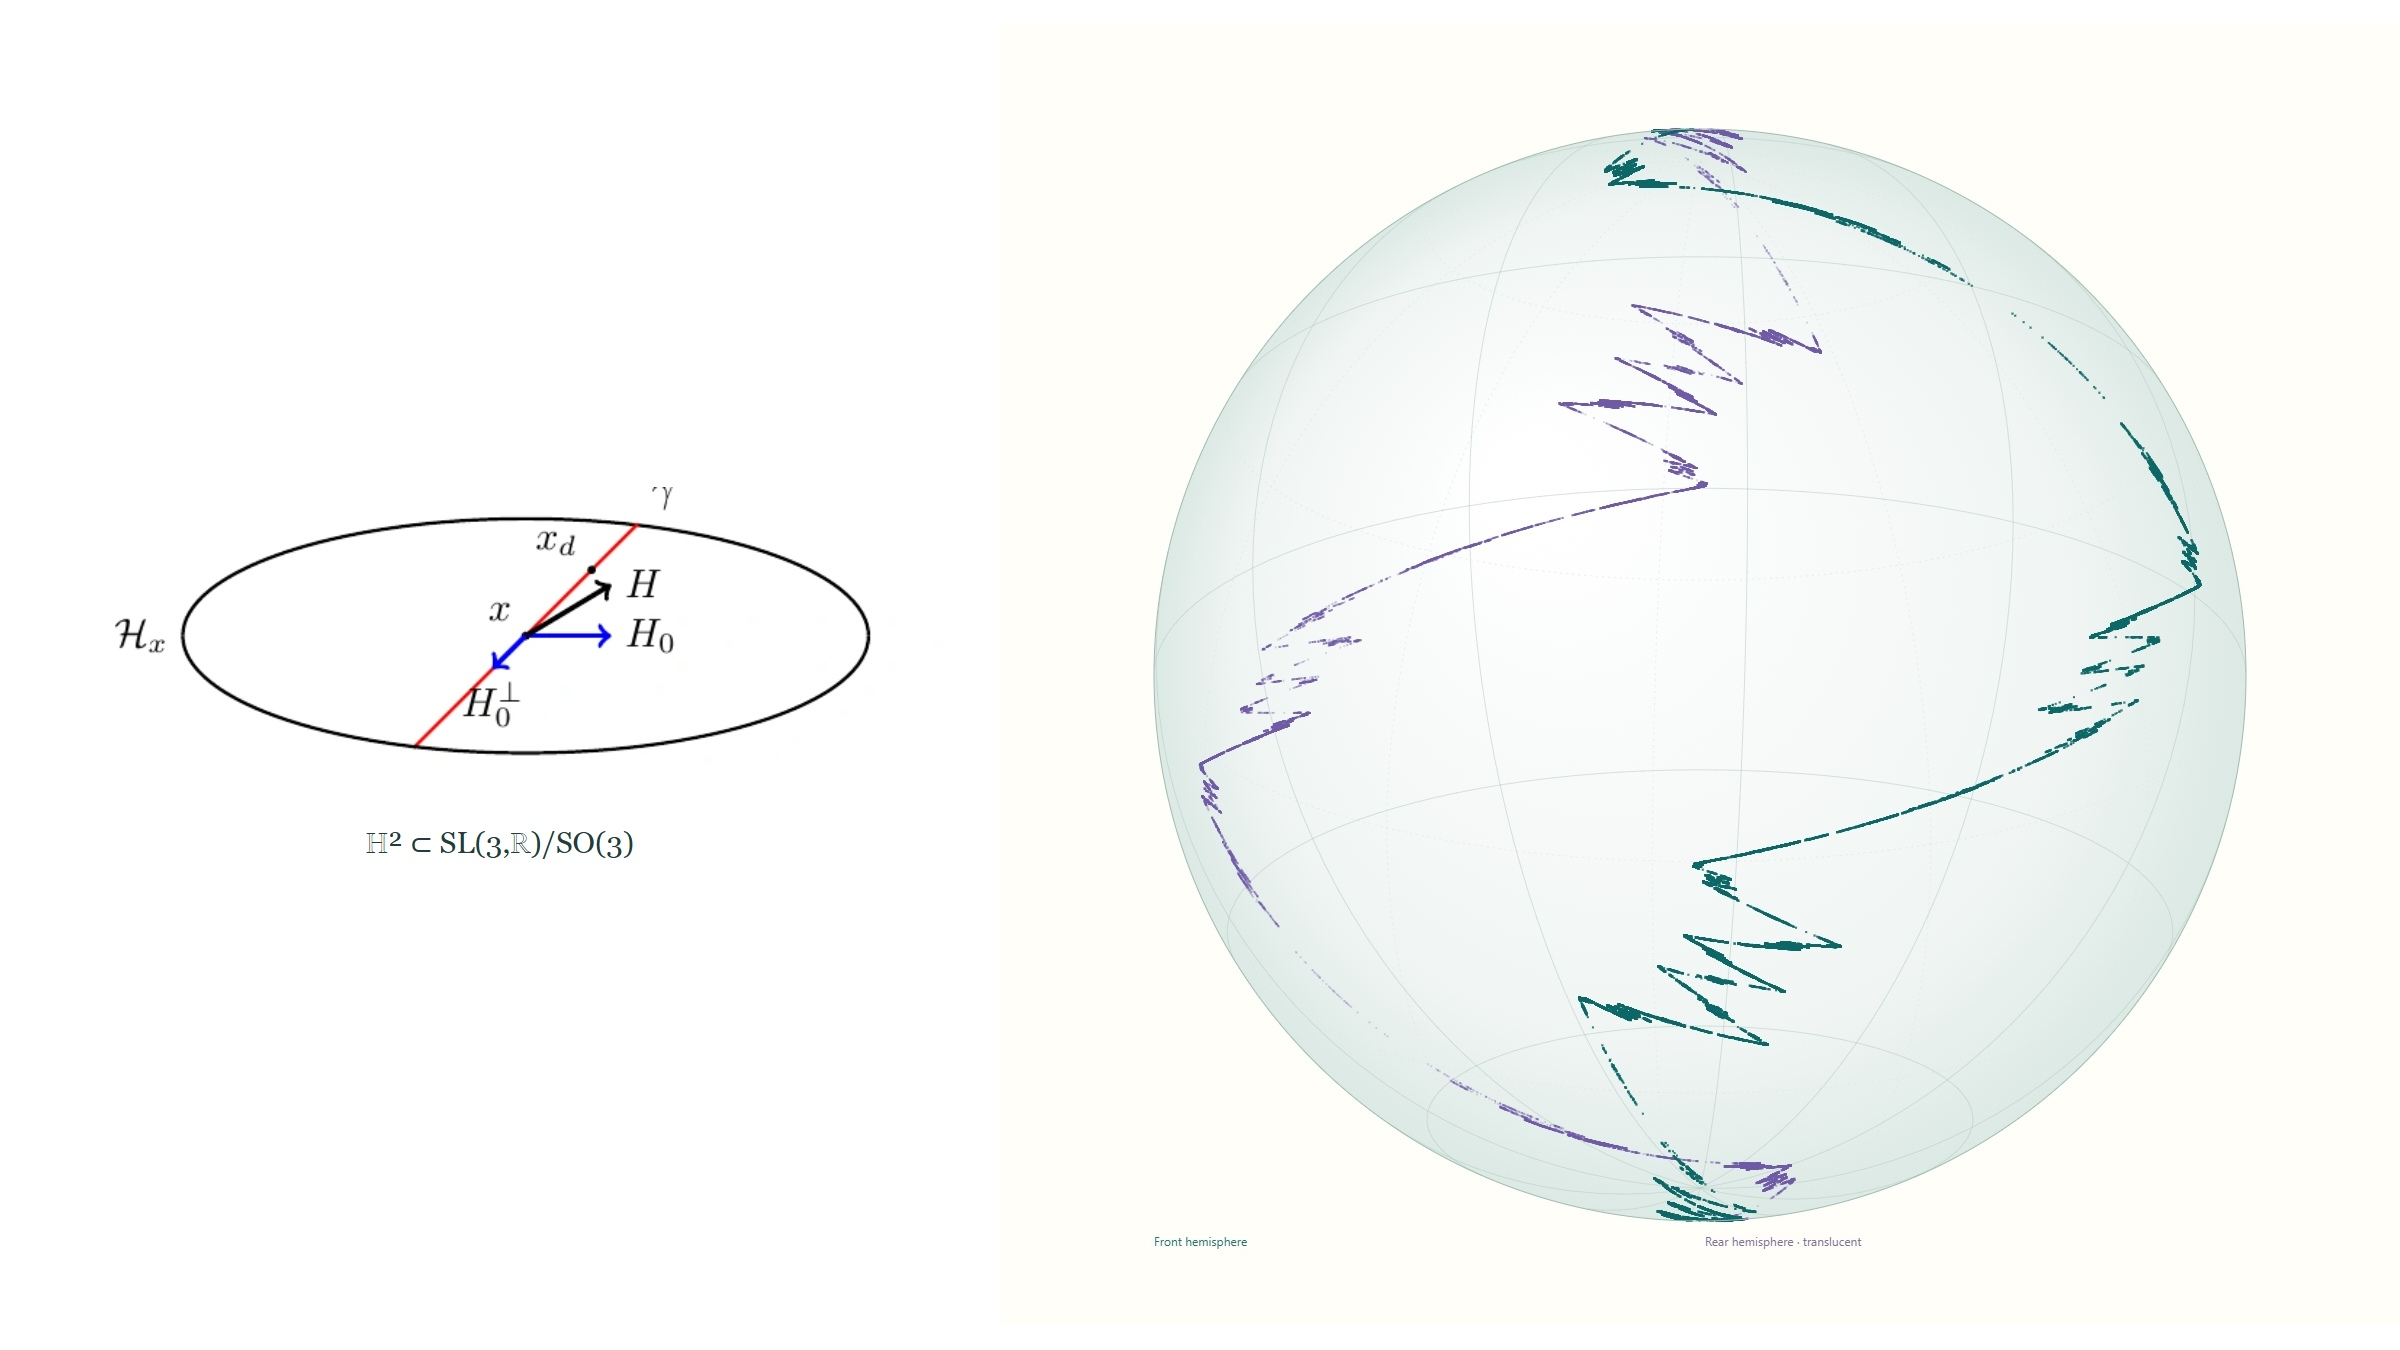
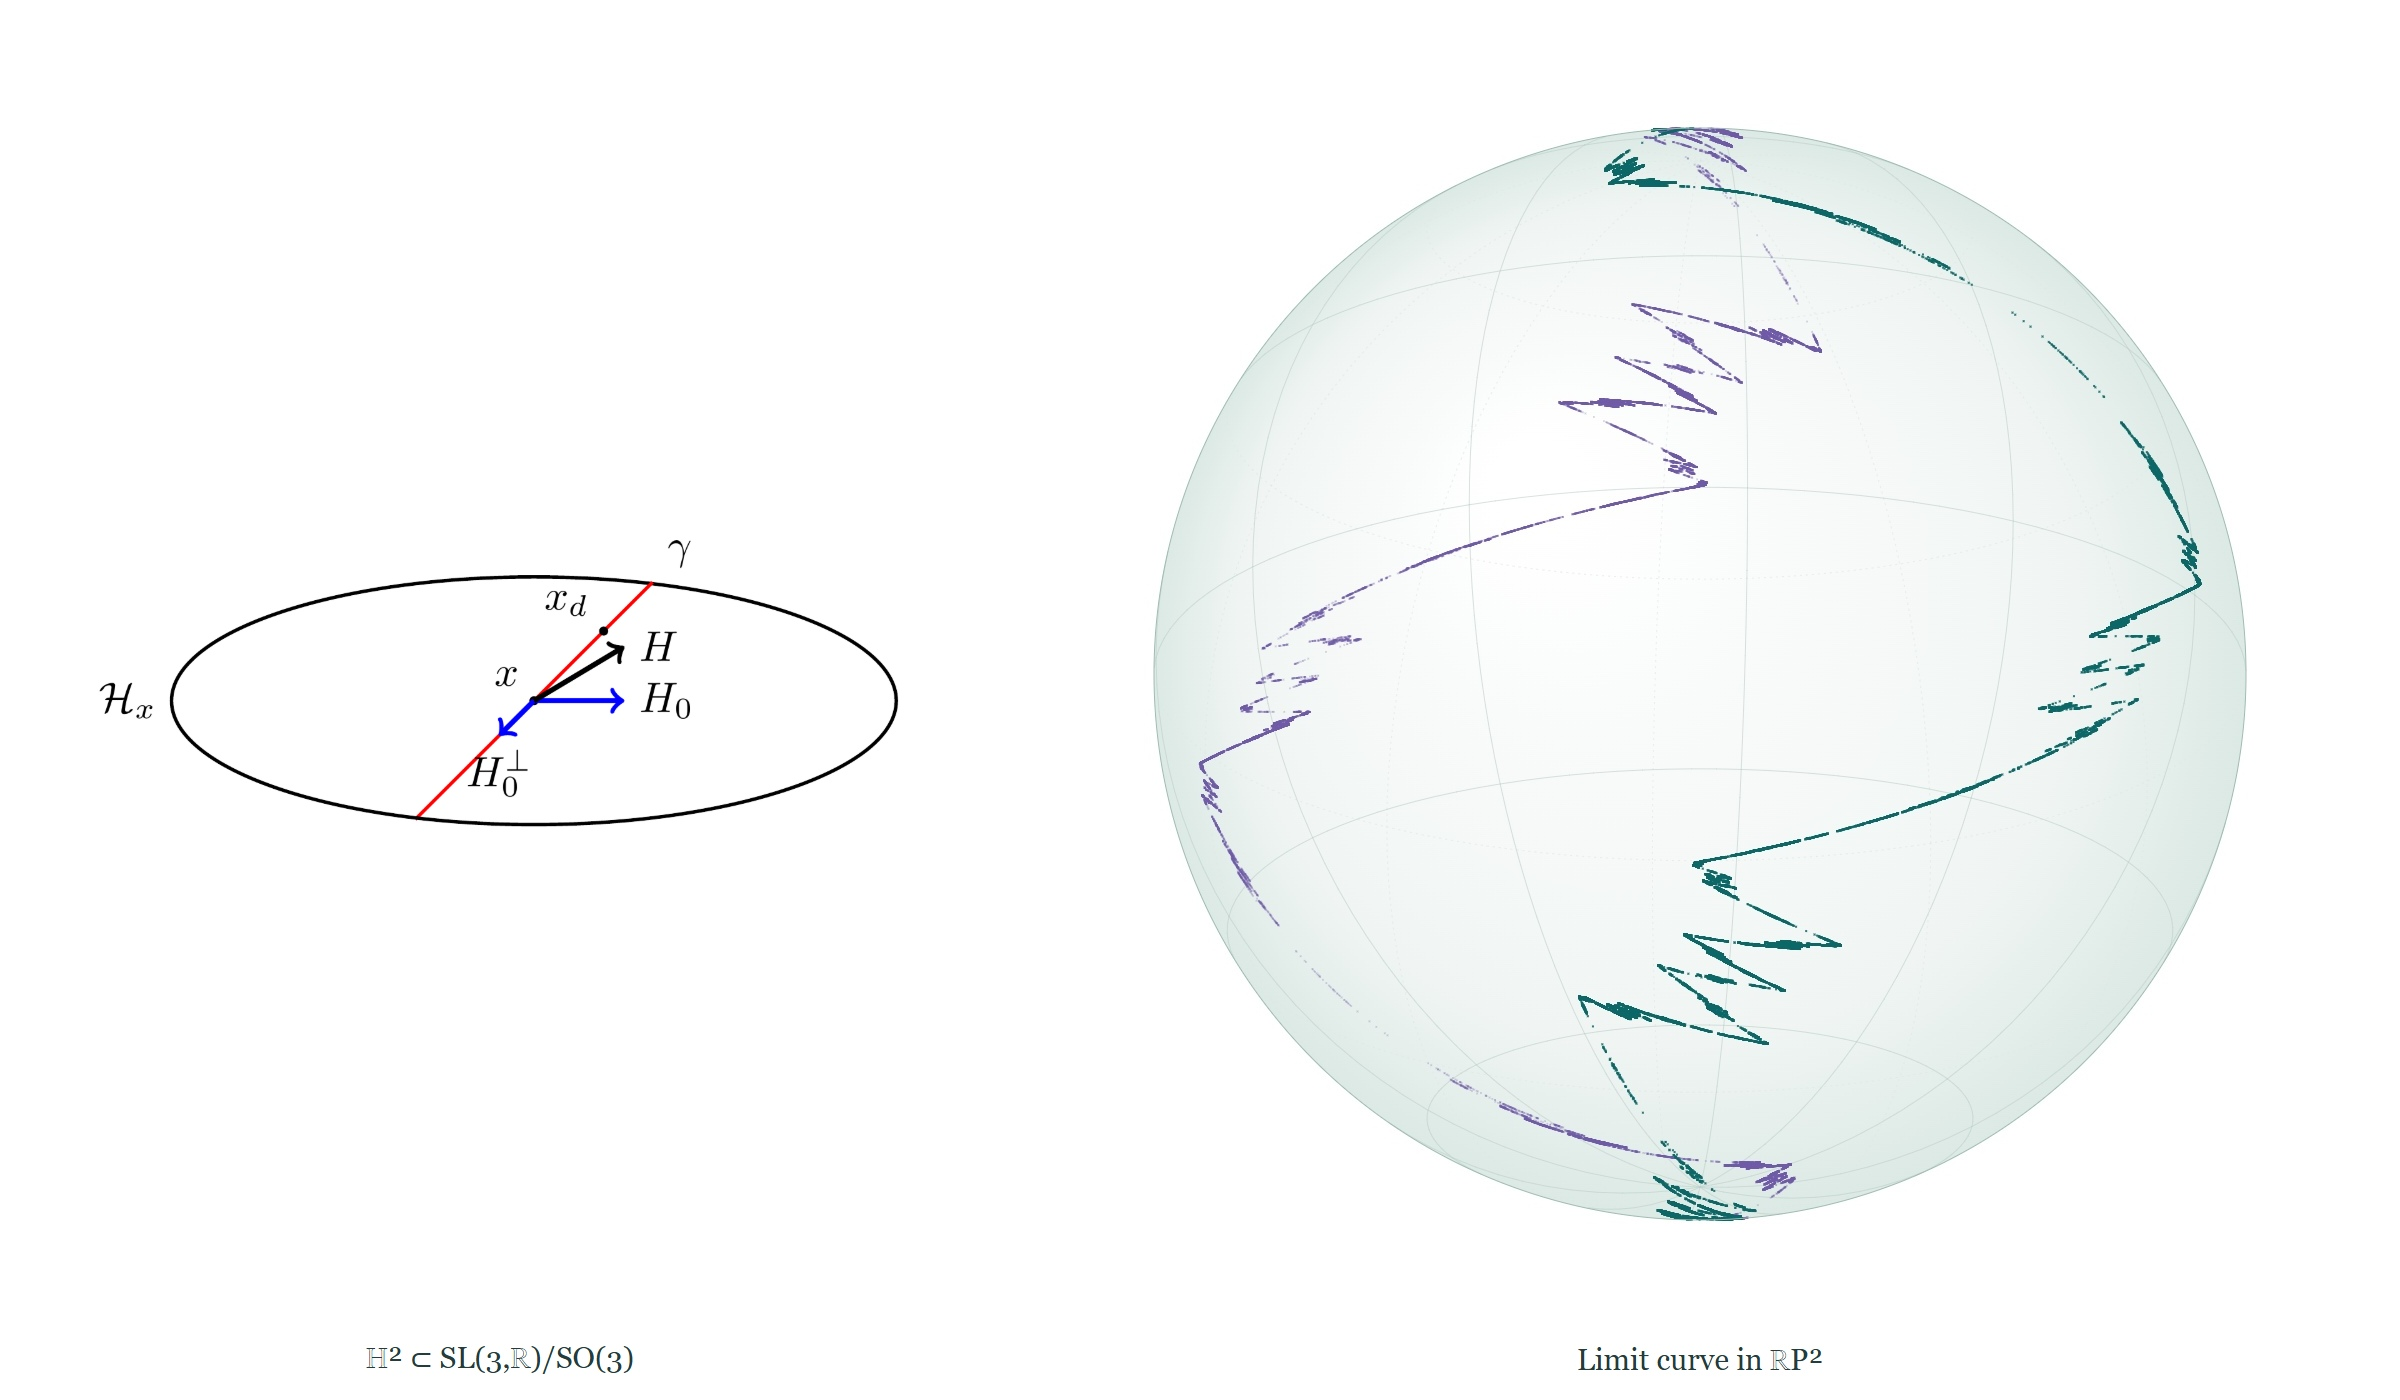
Restore full gamma label and clean up Barbot sphere illustration

diff --git a/scripts/PUBLICATION-ILLUSTRATIONS.md b/scripts/PUBLICATION-ILLUSTRATIONS.md
@@ -12,8 +12,10 @@ yaw 35°, pitch 20°. The relation residual is 8.0664e-4; the finite numerical
 cloud is not a certified limit curve.
 
 `pictures/barbot-figure-and-limit-sphere.jpg` places the original Figure 1
-(`barbot-figure-1.webp`) alongside that screenshot. Both original assets are
-preserved. Clicking either new publication illustration opens its full image.
+(`barbot-figure-1-complete.png`) alongside that screenshot. The complete
+diagram is extracted from page 20 of the original article PDF, with margin
+around γ; the old `barbot-figure-1.webp` is preserved. Both panels use pure
+white backgrounds, and the sphere caption is “Limit curve in ℝP²”. Clicking either new publication illustration opens its full image.
 
 Rebuild the composition with Node, Playwright and Edge available:
 
@@ -24,3 +26,11 @@ node scripts/compose_barbot_sphere.cjs
 The visualization project's `figures/` folder retains the browser-capture
 script, compressed sample data and full numerical provenance. No publication
 abstracts were changed.
+
+To reproduce the complete Figure 1 with Poppler, download the article PDF
+from https://arxiv.org/pdf/2502.09107 into `scripts/build/barbot-paper.pdf`,
+then run from the site root:
+
+```powershell
+pdftoppm -f 20 -singlefile -scale-to 5400 -x 1380 -y 780 -W 1440 -H 570 -png scripts/build/barbot-paper.pdf pictures/barbot-figure-1-complete
+```
